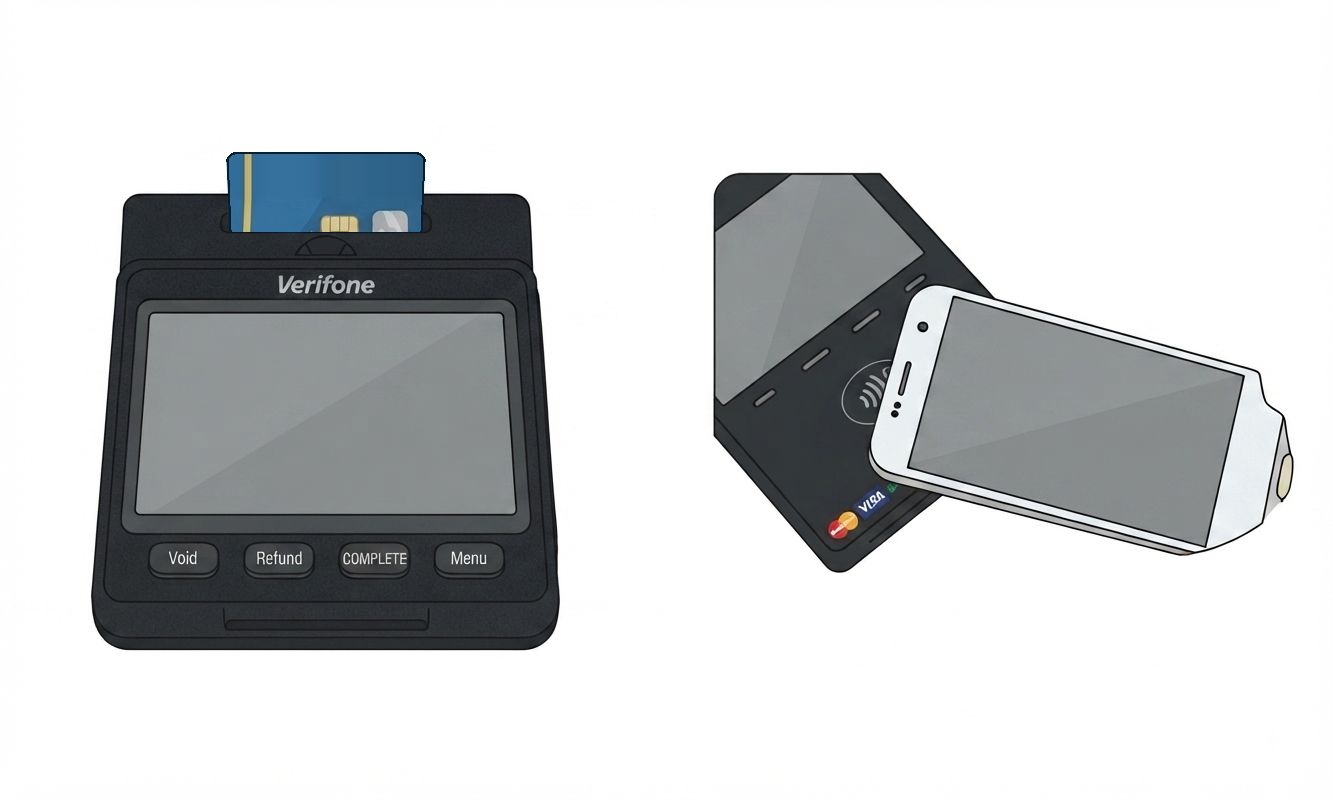
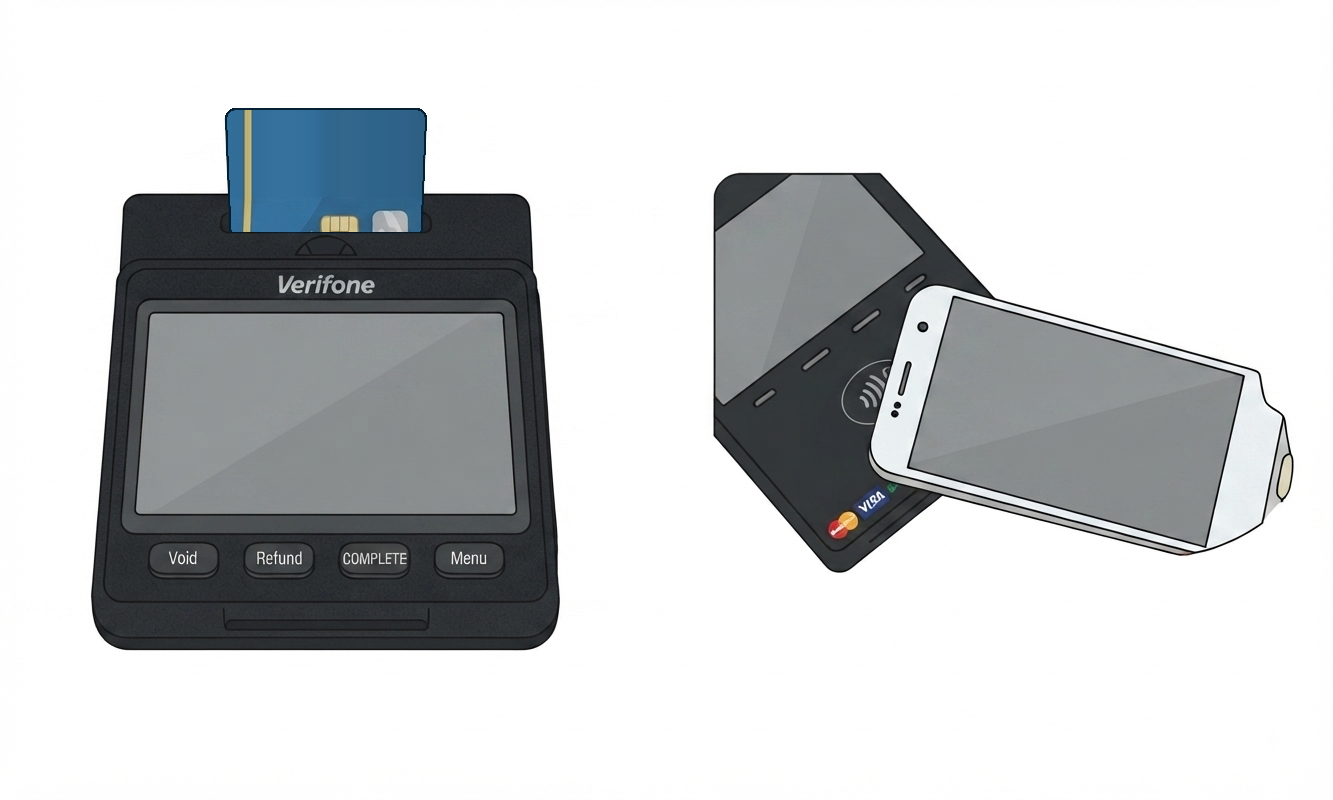
fix: 카드 결제 그림의 카드를 길게 하고 'IC칩이 있는 쪽을 투입구에 꽂기' 안내 추가

Changed region(s): [[0.1538, 0.125, 0.3383, 0.2188]]

diff --git a/guide-print.html b/guide-print.html
@@ -499,7 +499,7 @@ footer{background:#111827;color:rgba(255,255,255,.55);padding:60px 6%}
       </div>
       <div class="step">
         <div class="step-no">6</div>
-        <div class="step-figs"><img class="step-photo" src="images/print/print-pay.png?v=2" alt="IC카드 또는 삼성페이·애플페이로 결제하는 모습" loading="lazy"></div>
+        <div class="step-figs"><img class="step-photo" src="images/print/print-pay.png?v=3" alt="IC카드 또는 삼성페이·애플페이로 결제하는 모습" loading="lazy"></div>
         <div class="step-h">카드 결제</div>
         <p class="step-p">카드 찍는 기계에서 말소리가 나오면 IC카드를 꽂으세요<br>삼성페이·애플페이: 와이파이 표시가 있는 면에 대세요</p>
         <div class="step-note">삼성페이·애플페이는 현대카드 마스터만 가능</div>
@@ -1294,10 +1294,10 @@ footer{background:#111827;color:rgba(255,255,255,.55);padding:60px 6%}
       </div>
       <div class="step">
         <div class="step-no">10</div>
-        <div class="step-figs"><figure class="est-fig"><img class="step-photo" src="images/print/print-pay.png?v=2" alt="IC카드 또는 삼성페이·애플페이로 결제하는 모습" loading="lazy"></figure></div>
+        <div class="step-figs"><figure class="est-fig"><img class="step-photo" src="images/print/print-pay.png?v=3" alt="IC카드 또는 삼성페이·애플페이로 결제하는 모습" loading="lazy"></figure></div>
         <div class="est-txt">
           <div class="step-h">카드 결제</div>
-          <p class="step-p"><b>"카드를 대 주세요"</b> 소리가 나오면 <b>신용·체크카드는 단말기에 꽂고</b>, <b>삼성페이는 터치</b>해서 결제하세요.</p><div class="step-note">삼성페이·애플페이는 현대카드 마스터만 가능</div>
+          <p class="step-p"><b>"카드를 대 주세요"</b> 소리가 나오면 <b>신용·체크카드는 단말기에 꽂고</b>, <b>삼성페이는 터치</b>해서 결제하세요.</p><div class="step-note"><b>💳 신용·체크카드는 IC칩이 있는 쪽을 카드 단말기 투입구에 꽂으세요.</b></div><div class="step-note">삼성페이·애플페이는 현대카드 마스터만 가능</div>
         </div>
       </div>
     </div>
